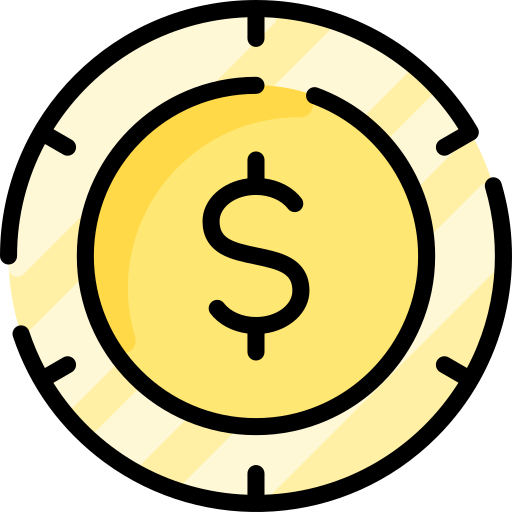
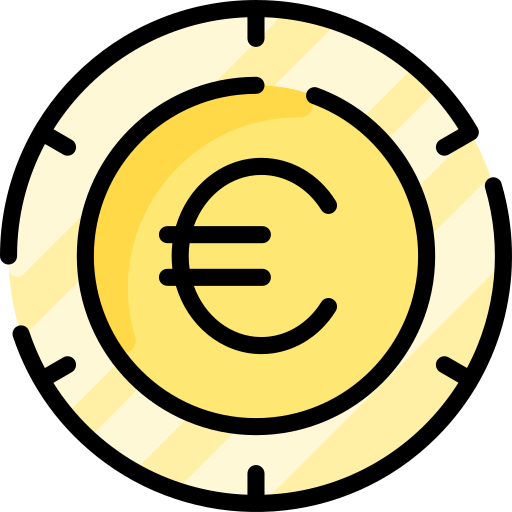
Initial commit

Changed region(s): [[0.3125, 0.2812, 0.6562, 0.7188]]

diff --git a/background.js b/background.js
@@ -1,6 +1,6 @@
 const
-    currencyNumberCode = 840;
-    currencyName = "USD"
+    currencyNumberCode = 978;
+    currencyName = "EUR"
     updateInterval = 60 * 60 * 1000;
 
 let lastExchangeRate = 0;
